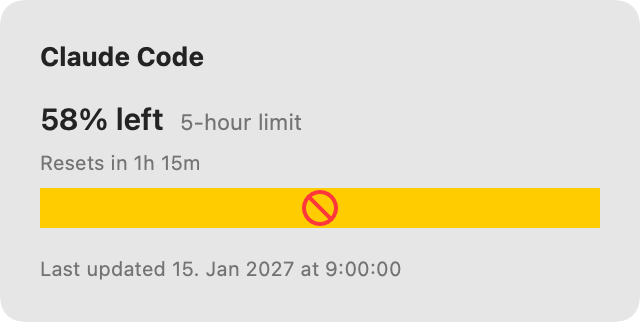
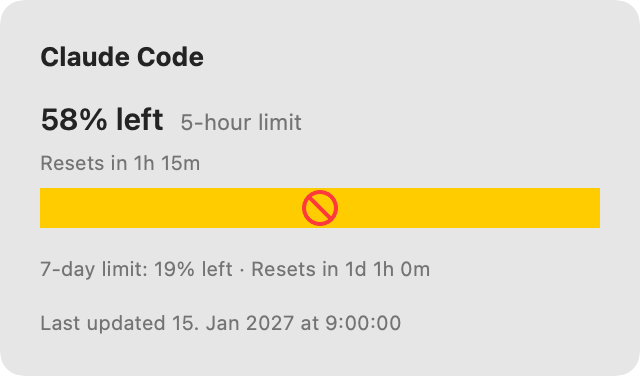
Collapsed sections show secondary windows small
The collapsed state now renders every non-headline meter as a small
caption line with its reset countdown (e.g. Claude's "7-day limit:
100% left · Resets in 5d 12h"), respecting the 5-hour preference.
Renders regenerated. 134/134 tests green.

Generated by Mistral Vibe.

Changed region(s): [[0.0625, 0.2795, 0.9375, 0.7453], [0.0625, 0.8075, 0.625, 0.9006], [0.0625, 0.1242, 0.3438, 0.2174]]

diff --git a/01_Project/Sources/Features/UsageStatus/Views/UsageStatusView.swift b/01_Project/Sources/Features/UsageStatus/Views/UsageStatusView.swift
@@ -123,6 +123,15 @@ struct ProviderSectionView: View {
                     }
                 }
             }
+            if !expanded {
+                // Collapsed sections keep their secondary windows visible in
+                // small — the headline shows only the primary one.
+                ForEach(secondaryMeters(section)) { meter in
+                    Text(Self.smallWindowLine(meter, section: section, now: now))
+                        .font(.caption)
+                        .foregroundStyle(.secondary)
+                }
+            }
             if expanded {
                 // The Codex 5-hour display is optional; the provider owns these
                 // stable ids. Hiding the meter hides its reset countdown with it.
@@ -159,6 +168,24 @@ struct ProviderSectionView: View {
 
     private func visibleMeters(_ section: ProviderSection) -> [SectionMeter] {
         showFiveHourLimit ? section.meters : section.meters.filter { $0.id != "five-hour-limit" }
+    }
+
+    /// Meters other than the headline's primary window, shown small while collapsed.
+    private func secondaryMeters(_ section: ProviderSection) -> [SectionMeter] {
+        visibleMeters(section).filter { $0.label != section.headline?.windowLabel }
+    }
+
+    /// Compact collapsed line for one secondary window, with its reset countdown
+    /// when a same-label deadline exists.
+    private static func smallWindowLine(_ meter: SectionMeter, section: ProviderSection, now: Date) -> String {
+        var text = "\(meter.label): \(Int((meter.fractionLeft * 100).rounded()))% left"
+        if let deadline = section.deadlines.first(where: { $0.label == meter.label }) {
+            text += " · \(SectionDeadlineView.countdownText(deadline.date, now: now))"
+        }
+        if meter.isEstimate {
+            text += " (estimated)"
+        }
+        return text
     }
 
     private func visibleDeadlines(_ section: ProviderSection) -> [SectionDeadline] {
